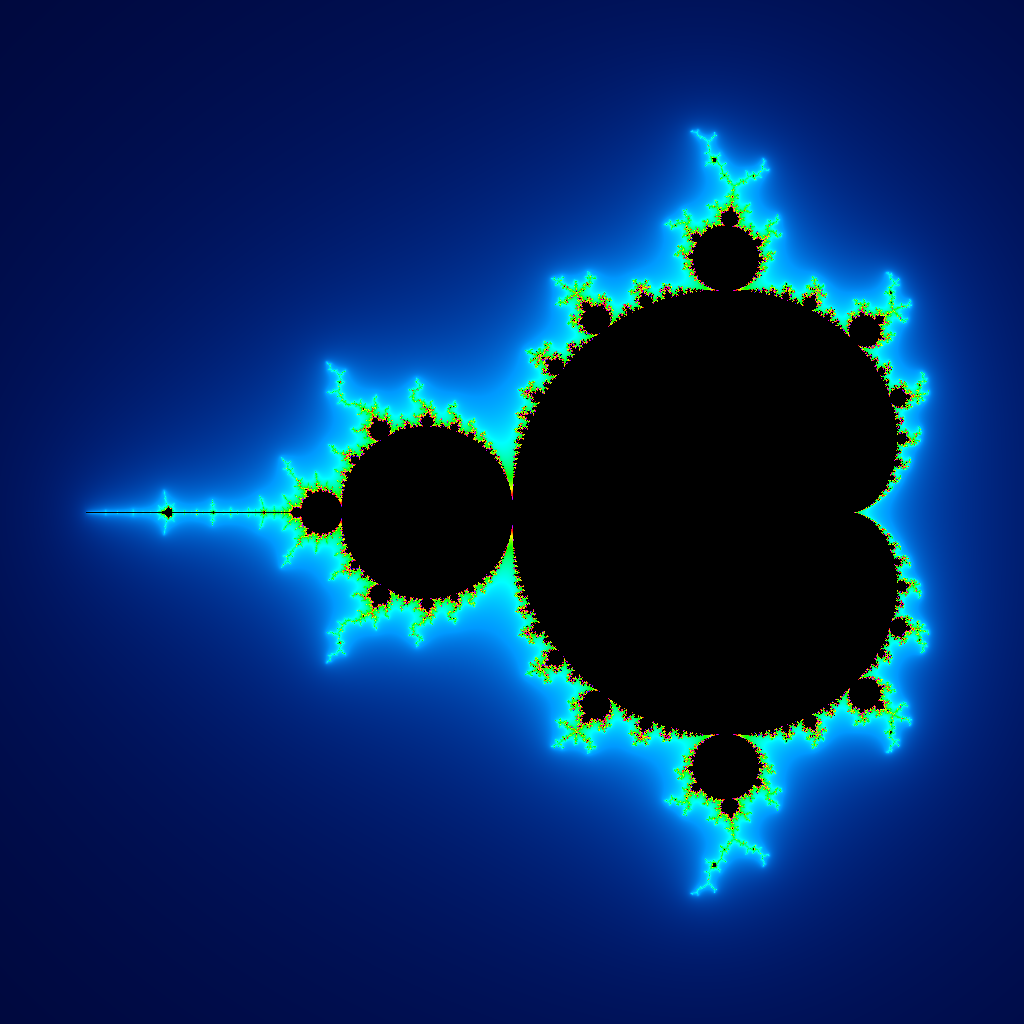
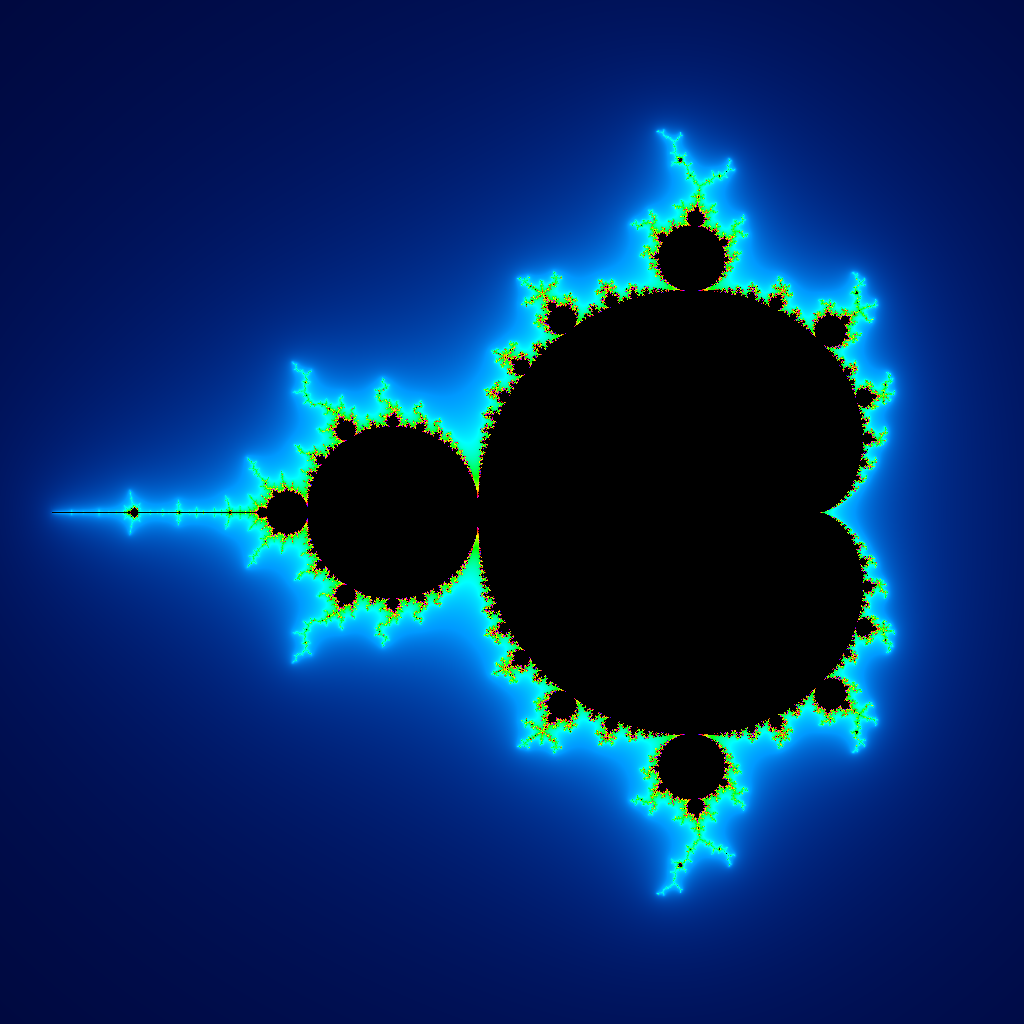
Allow Mandelbots with transparency (eg, those rendered with a circular view) to be saved with transparency intact, unless selection rectangles were used (because the way we currently erase selection rectangles requires that the entire grid be opaque)

Changed region(s): [[0.0312, 0.0938, 0.9375, 0.9062]]

diff --git a/src/mandelbot.min.js b/src/mandelbot.min.js
@@ -11,21 +11,21 @@
 */
 for(var aa="function"==typeof Object.defineProperties?Object.defineProperty:function(a,c,b){if(b.get||b.set)throw new TypeError("ES3 does not support getters and setters.");a!=Array.prototype&&a!=Object.prototype&&(a[c]=b.value)},n="undefined"!=typeof window&&window===this?this:"undefined"!=typeof global&&null!=global?global:this,r=["Math","trunc"],u=0;u<r.length-1;u++){var v=r[u];v in n||(n[v]={});n=n[v]}
 var w=r[r.length-1],x=n[w],y=x?x:function(a){a=Number(a);if(isNaN(a)||Infinity===a||-Infinity===a||!a)return a;var c=Math.floor(Math.abs(a));return 0>a?-c:c};y!=x&&null!=y&&aa(n,w,{configurable:!0,writable:!0,value:y});var z=0,A=[],B=0,ba=1E3/60|0,C,E;
-function F(a,c,b,d,e,f,h,g,k,l,q){a=void 0===a?0:a;c=void 0===c?0:c;b=void 0===b?G:b;d=void 0===d?H:d;e=void 0===e?I:e;f=void 0===f?J:f;K(this,l);this.c=!!L(this,M,h||!1);this.P=L(this,N,g||F.PALETTE.GRAY);this.$=k||F.SHAPE.RECT;this.Z=[0,0,0,0];this.N=[];try{this.aa(F.CONTROL_STATUS,q);var t;a:if(this.V=l,this.H=this.G=0,l){if(this.L=document.getElementById(l))if(this.H=this.L.width,this.G=this.L.height,this.F=this.L.getContext("2d")){this.F.imageSmoothingEnabled=!1;ca(this,this.L);t=!0;break a}O(this,
-"Missing view canvas");t=!1}else t=!0;var p;if(p=t)a:{var m=a||this.H,D=c||this.G;if(this.B=document.createElement("canvas"))if(this.B.width=this.a=m||da,this.B.height=this.b=D||ea,this.D=this.B.getContext("2d"))if(this.v=this.D.createImageData(this.a,this.b)){p=!0;break a}O(this,"Unable to create grid canvas");p=!1}p&&(this.X=L(this,P,this.ja=b,!1),this.Y=L(this,Q,this.ka=d,!1),this.T=L(this,R,this.ga=e,!0),this.U=L(this,S,this.ha=f,!0),T(this,this.X,this.Y,this.T,this.U,!1))}catch(ma){O(this,ma.message)}}
-F.prototype.aa=function(a,c){var b=this;c=c?document.getElementById(c):null;switch(a){case F.CONTROL_STATUS:this.ba=c;O(this);break;case F.CONTROL_RESET:c&&(c.onclick=function(){b.N=[];U(b);b.I==b.X&&b.K==b.Y&&b.h==b.T&&b.j==b.U?T(b,G,H,I,J):T(b,b.X,b.Y,b.T,b.U)});break;case F.CONTROL_PREVIOUS:if(this.S=c)c.onclick=function(){var a=b.N.pop();if(null!=a){K(b,b.V,a);b.c=!!L(b,M,b.c);b.P=L(b,N,b.P);var a=L(b,P,b.ja,!1),c=L(b,Q,b.ka,!1),f=L(b,R,b.ga,!0),h=L(b,S,b.ha,!0);T(b,a,c,f,h);U(b)}};U(this)}};
-function ca(a,c){a.O||(a.O=c,a.g=a.m=-1,a.W=0,a.i=a.w=-1,a.o=a.u=0,a.ia=!1,c.addEventListener("touchstart",function(b){V(a,W,b)}),c.addEventListener("touchmove",function(b){V(a,X,b)}),c.addEventListener("touchend",function(b){V(a,Y,b)}),c.addEventListener("mousedown",function(b){b.button||V(a,W,b)}),c.addEventListener("mousemove",function(b){0<=a.g&&V(a,X,b)}),c.addEventListener("mouseup",function(b){b.button||V(a,Y,b)}),c.addEventListener("mouseout",function(b){0<=a.g&&V(a,Y,b)}))}
-function V(a,c,b){var d,e;if(c<Y){b=b||window.event;b.targetTouches&&b.targetTouches.length?(d=b.targetTouches[0].pageX,e=b.targetTouches[0].pageY):(d=b.pageX,e=b.pageY);var f=0,h=0,g=a.O;do isNaN(g.offsetLeft)||(f+=g.offsetLeft,h+=g.offsetTop);while(g=g.offsetParent);d=a.H/a.O.offsetWidth*(d-f);e=a.G/a.O.offsetHeight*(e-h);d=Math.round(a.a*d/a.H);e=Math.round(a.b*e/a.G)}a.ia||b.preventDefault();0<=a.i&&a.D.putImageData(a.v,0,0);c==W?(a.g=d,a.m=e,a.W=Date.now()):c==X?(c=Math.abs(a.m-e),10<=Math.abs(a.g-
-d)&&10<=c&&(a.i=a.g,a.w=a.m,a.o=d-a.i,a.u=e-a.w,Math.abs(a.o/a.u)!=Math.abs(a.a/a.b)&&(c=Math.abs(a.a*a.u/a.b),a.o=0>a.o?-c:c))):c==Y&&(200>Date.now()-a.W&&(a.o&&a.u?(d=a.i,b=a.w,c=a.i+a.o,e=a.w+a.u,c<d&&(d=c,c=a.i),e<b&&(b=e,e=a.w),a.g>d&&a.g<c&&a.m>b&&a.m<=e&&(a.c?(c=a.f.times(c-d).dividedBy(2),e=a.l.times(e-b).dividedBy(2),d=a.A.plus(a.f.times(d)).plus(c),b=a.s.minus(a.l.times(b)).minus(e)):(c=(c-d)*a.f/2,e=(e-b)*a.l/2,d=a.A+d*a.f+c,b=a.s-b*a.l-e),T(a,d,b,c,e,!0))):(a.c?(d=a.A.plus(a.f.times(a.g)),
-b=a.s.minus(a.l.times(a.m))):(d=a.A+a.g*a.f,b=a.s-a.m*a.l),T(a,d,b,a.h,a.j,!0)),a.i=a.w=-1,a.o=a.u=0),a.g=a.m=-1,a.W=0);0<=a.i&&(a.D.lineWidth=1,a.D.strokeStyle="#00FF00",a.D.strokeRect(a.i,a.w,a.o,a.u));a.F&&a.F.drawImage(a.B,0,0,a.a,a.b,0,0,a.H,a.G)}
-function T(a,c,b,d,e,f){a.c?(a.I=new BigNumber(c),a.K=new BigNumber(b),a.h=new BigNumber(d),a.j=new BigNumber(e),a.A=a.I.minus(a.h),a.f=a.h.times(2).dividedBy(a.a).round(20),a.s=a.K.plus(a.j),a.l=a.j.times(2).dividedBy(a.b).round(20)):(a.I=c,a.K=b,a.h=d,a.j=e,a.A=a.I-a.h,a.f=2*a.h/a.a,a.s=a.K+a.j,a.l=2*a.j/a.b);fa(a,0);if(a.$)for(c=0;c<a.b;c++)for(b=0;b<a.a;b++)ga(a,b,c,16777215);c=a.h;b=a.j;var h;"number"==typeof c?h=Math.min(c,b):h=BigNumber.min(c,b);a.ea=Math.floor(223/Math.sqrt(.001+4*h));O(a,
-"X: "+a.I+", Y: "+a.K+", D: +/-"+a.h+", Max Iterations: "+a.ea+(a.c?" (BigNumbers)":""));!1!==f&&(a.V&&(f&&(a.N.push(location.hash),U(a)),f=ha+"="+a.V,f+="&"+P+"="+a.I,f+="&"+Q+"="+a.K,f+="&"+R+"="+a.h,f+="&"+S+"="+a.j,f+="&"+M+"="+a.c,f+="&"+N+"="+a.P,location.hash=f),Z(!0))}
-function fa(a,c){a.M=c;if(a.$){var b=Math.trunc(a.b/2),d=b-a.M,b=Math.round(Math.sqrt(b*b-d*d));a.C=Math.trunc(a.a/2)-b;a.fa=2*b}else a.C=0,a.fa=a.a;a.c?(a.J=a.A.plus(a.f.times(a.C)),a.R=c?a.R.minus(a.l):a.s.plus(0)):(a.J=a.A+a.f*a.C,a.R=c?a.R-a.l:a.s)}function K(a,c,b){b=void 0===b?location.hash:b;a.ca={};if(c){for(var d={},e,f=/([^#&=]+)=([^&]*)/g;e=f.exec(b);)d[e[1]]=e[2];d[ha]==c&&(a.ca=d)}}
-function L(a,c,b,d){c=a.ca[c];if("boolean"==typeof b)return c&&("true"==c||+c)||!c&&b?1:0;b=c||b;a.c&&void 0!==d?(a=new BigNumber(b),d&&(a=a.abs())):(a=+b,d&&(a=Math.abs(a)));return a}function U(a){a.S&&(a.N.length?a.S.removeAttribute("disabled"):a.S.setAttribute("disabled","disabled"))}function O(a,c){c=c||a.da||"";a.ba?(a.ba.innerHTML=c,a.da=""):a.da=c}function ga(a,c,b,d){c=4*(c+b*a.a);a.v.data[c]=d&255;a.v.data[c+1]=d>>8&255;a.v.data[c+2]=d>>16&255;a.v.data[c+3]=255}
+function F(a,c,b,d,e,f,h,g,k,l,q){a=void 0===a?0:a;c=void 0===c?0:c;b=void 0===b?G:b;d=void 0===d?H:d;e=void 0===e?I:e;f=void 0===f?J:f;K(this,l);this.c=!!L(this,M,h||!1);this.P=L(this,N,g||F.PALETTE.GRAY);this.ga=k||F.SHAPE.RECT;this.$=[0,0,0,0];this.N=[];try{this.Z(F.CONTROL_STATUS,q);var t;a:if(this.V=l,this.H=this.G=0,l){if(this.L=document.getElementById(l))if(this.H=this.L.width,this.G=this.L.height,this.F=this.L.getContext("2d")){this.F.imageSmoothingEnabled=!1;ca(this,this.L);t=!0;break a}O(this,
+"Missing view canvas");t=!1}else t=!0;var p;if(p=t)a:{var m=a||this.H,D=c||this.G;if(this.B=document.createElement("canvas"))if(this.B.width=this.a=m||da,this.B.height=this.b=D||ea,this.D=this.B.getContext("2d"))if(this.m=this.D.createImageData(this.a,this.b)){p=!0;break a}O(this,"Unable to create grid canvas");p=!1}p&&(this.X=L(this,P,this.ka=b,!1),this.Y=L(this,Q,this.la=d,!1),this.T=L(this,R,this.ha=e,!0),this.U=L(this,S,this.ia=f,!0),T(this,this.X,this.Y,this.T,this.U,!1))}catch(ma){O(this,ma.message)}}
+F.prototype.Z=function(a,c){var b=this;c=c?document.getElementById(c):null;switch(a){case F.CONTROL_STATUS:this.aa=c;O(this);break;case F.CONTROL_RESET:c&&(c.onclick=function(){b.N=[];U(b);b.I==b.X&&b.K==b.Y&&b.h==b.T&&b.j==b.U?T(b,G,H,I,J):T(b,b.X,b.Y,b.T,b.U)});break;case F.CONTROL_PREVIOUS:if(this.S=c)c.onclick=function(){var a=b.N.pop();if(null!=a){K(b,b.V,a);b.c=!!L(b,M,b.c);b.P=L(b,N,b.P);var a=L(b,P,b.ka,!1),c=L(b,Q,b.la,!1),f=L(b,R,b.ha,!0),h=L(b,S,b.ia,!0);T(b,a,c,f,h);U(b)}};U(this)}};
+function ca(a,c){a.O||(a.O=c,a.g=a.o=-1,a.W=0,a.i=a.w=-1,a.s=a.v=0,a.ja=!1,c.addEventListener("touchstart",function(b){V(a,W,b)}),c.addEventListener("touchmove",function(b){V(a,X,b)}),c.addEventListener("touchend",function(b){V(a,Y,b)}),c.addEventListener("mousedown",function(b){b.button||V(a,W,b)}),c.addEventListener("mousemove",function(b){0<=a.g&&V(a,X,b)}),c.addEventListener("mouseup",function(b){b.button||V(a,Y,b)}),c.addEventListener("mouseout",function(b){0<=a.g&&V(a,Y,b)}))}
+function V(a,c,b){var d,e;if(c<Y){b=b||window.event;b.targetTouches&&b.targetTouches.length?(d=b.targetTouches[0].pageX,e=b.targetTouches[0].pageY):(d=b.pageX,e=b.pageY);var f=0,h=0,g=a.O;do isNaN(g.offsetLeft)||(f+=g.offsetLeft,h+=g.offsetTop);while(g=g.offsetParent);d=a.H/a.O.offsetWidth*(d-f);e=a.G/a.O.offsetHeight*(e-h);d=Math.round(a.a*d/a.H);e=Math.round(a.b*e/a.G)}a.ja||b.preventDefault();if(0<=a.i){if(a.ba){b=a.a*a.b*4;for(f=0;f<b;f+=4)a.m.data[f+3]=255;a.ba=!1}a.D.putImageData(a.m,0,0)}c==
+W?(a.g=d,a.o=e,a.W=Date.now()):c==X?(c=Math.abs(a.o-e),10<=Math.abs(a.g-d)&&10<=c&&(a.i=a.g,a.w=a.o,a.s=d-a.i,a.v=e-a.w,Math.abs(a.s/a.v)!=Math.abs(a.a/a.b)&&(c=Math.abs(a.a*a.v/a.b),a.s=0>a.s?-c:c))):c==Y&&(200>Date.now()-a.W&&(a.s&&a.v?(d=a.i,b=a.w,c=a.i+a.s,e=a.w+a.v,c<d&&(d=c,c=a.i),e<b&&(b=e,e=a.w),a.g>d&&a.g<c&&a.o>b&&a.o<=e&&(a.c?(c=a.f.times(c-d).dividedBy(2),e=a.l.times(e-b).dividedBy(2),d=a.A.plus(a.f.times(d)).plus(c),b=a.u.minus(a.l.times(b)).minus(e)):(c=(c-d)*a.f/2,e=(e-b)*a.l/2,d=a.A+
+d*a.f+c,b=a.u-b*a.l-e),T(a,d,b,c,e,!0))):(a.c?(d=a.A.plus(a.f.times(a.g)),b=a.u.minus(a.l.times(a.o))):(d=a.A+a.g*a.f,b=a.u-a.o*a.l),T(a,d,b,a.h,a.j,!0)),a.i=a.w=-1,a.s=a.v=0),a.g=a.o=-1,a.W=0);0<=a.i&&(a.D.lineWidth=1,a.D.strokeStyle="#00FF00",a.D.strokeRect(a.i,a.w,a.s,a.v));a.F&&a.F.drawImage(a.B,0,0,a.a,a.b,0,0,a.H,a.G)}
+function T(a,c,b,d,e,f){a.c?(a.I=new BigNumber(c),a.K=new BigNumber(b),a.h=new BigNumber(d),a.j=new BigNumber(e),a.A=a.I.minus(a.h),a.f=a.h.times(2).dividedBy(a.a).round(20),a.u=a.K.plus(a.j),a.l=a.j.times(2).dividedBy(a.b).round(20)):(a.I=c,a.K=b,a.h=d,a.j=e,a.A=a.I-a.h,a.f=2*a.h/a.a,a.u=a.K+a.j,a.l=2*a.j/a.b);fa(a,0);a.ba=!0;for(c=0;c<a.b;c++)for(b=0;b<a.a;b++)ga(a,b,c,16777215,0);c=a.h;b=a.j;var h;"number"==typeof c?h=Math.min(c,b):h=BigNumber.min(c,b);a.ea=Math.floor(223/Math.sqrt(.001+4*h));
+O(a,"X: "+a.I+", Y: "+a.K+", D: +/-"+a.h+", Max Iterations: "+a.ea+(a.c?" (BigNumbers)":""));!1!==f&&(a.V&&(f&&(a.N.push(location.hash),U(a)),f=ha+"="+a.V,f+="&"+P+"="+a.I,f+="&"+Q+"="+a.K,f+="&"+R+"="+a.h,f+="&"+S+"="+a.j,f+="&"+M+"="+a.c,f+="&"+N+"="+a.P,location.hash=f),Z(!0))}
+function fa(a,c){a.M=c;if(a.ga){var b=Math.trunc(a.b/2),d=b-a.M,b=Math.round(Math.sqrt(b*b-d*d));a.C=Math.trunc(a.a/2)-b;a.fa=2*b}else a.C=0,a.fa=a.a;a.c?(a.J=a.A.plus(a.f.times(a.C)),a.R=c?a.R.minus(a.l):a.u.plus(0)):(a.J=a.A+a.f*a.C,a.R=c?a.R-a.l:a.u)}function K(a,c,b){b=void 0===b?location.hash:b;a.ca={};if(c){for(var d={},e,f=/([^#&=]+)=([^&]*)/g;e=f.exec(b);)d[e[1]]=e[2];d[ha]==c&&(a.ca=d)}}
+function L(a,c,b,d){c=a.ca[c];if("boolean"==typeof b)return c&&("true"==c||+c)||!c&&b?1:0;b=c||b;a.c&&void 0!==d?(a=new BigNumber(b),d&&(a=a.abs())):(a=+b,d&&(a=Math.abs(a)));return a}function U(a){a.S&&(a.N.length?a.S.removeAttribute("disabled"):a.S.setAttribute("disabled","disabled"))}function O(a,c){c=c||a.da||"";a.aa?(a.aa.innerHTML=c,a.da=""):a.da=c}function ga(a,c,b,d,e){c=4*(c+b*a.a);a.m.data[c]=d&255;a.m.data[c+1]=d>>8&255;a.m.data[c+2]=d>>16&255;a.m.data[c+3]=void 0===e?255:e}
 function ia(a){var c=0,b=8,c=void 0===c?0:c,b=void 0===b?1:b;a=void 0===a?!1:a;var d=0,e=0;do{var f=0,h=Date.now(),g,k=50;do{k*=2;g=a?new BigNumber(G):G;var l=a?new BigNumber(H):H,l=ja(g,l,c+k);g=Date.now()-h;if(g>=ba)break;f+=c+k-l;c=0}while(1);d+=f;b&&(c=Math.floor(f/b));e++}while(0<--b);return Math.floor(d/e)}
 function ja(a,c,b,d){var e=b=b||100,f=0,h=0;if("number"==typeof a){var g=0,k=0,l;do k=2*g*k+c,g=f-h+a,l=(f=g*g)+(h=k*k);while(0<--e&&4>l);if(e&&d){l=4;do k=2*g*k+c,g=f-h+a,f=g*g,h=k*k;while(0<--l)}}else{g=new BigNumber(0);k=new BigNumber(0);l=new BigNumber(0);var q=new BigNumber(0);do k=g.times(k).times(2).plus(c).round(20),g=l.minus(q).plus(a),l=g.times(g).round(20),q=k.times(k).round(20);while(0<--e&&l.plus(q).lt(4));if(e&&d){f=4;do k=g.times(k).times(2).plus(c).round(20),g=l.minus(q).plus(a),l=
-g.times(g).round(20),q=k.times(k).round(20);while(0<--f);f=l.toNumber();h=q.toNumber()}}d&&(d[0]=b,d[1]=e,d[2]=f,d[3]=h);return e}function ka(a,c){1<c&&(c=1);var b=a/60,d=1*c,e=d*(1-Math.abs(b%2-1)),f=a=0,h=0;1>b?(a=d,f=e):2>b?(a=e,f=d):3>b?(f=d,h=e):4>b?(f=e,h=d):5>b?(a=e,h=d):(a=d,h=e);c-=d;return 255*(a+c)&255|(255*(f+c)&255)<<8|(255*(h+c)&255)<<16}var da=200,ea=200,G=-.75,H=0,I=1.5,J=1.5,W=1,X=2,Y=3,la=1/Math.log(2),na=Math.log(.5)*la,ha="id",P="x",Q="y",R="dx",S="dy",M="big",N="palette";
+g.times(g).round(20),q=k.times(k).round(20);while(0<--f);f=l.toNumber();h=q.toNumber()}}d&&(d[0]=b,d[1]=e,d[2]=f,d[3]=h);return e}function ka(a,c){1<c&&(c=1);var b=a/60,d=1*c,e=d*(1-Math.abs(b%2-1)),f=a=0,h=0;1>b?(a=d,f=e):2>b?(a=e,f=d):3>b?(f=d,h=e):4>b?(f=e,h=d):5>b?(a=e,h=d):(a=d,h=e);c-=d;return 255*(a+c)&255|(255*(f+c)&255)<<8|(255*(h+c)&255)<<16}var da=200,ea=200,G=-.65,H=0,I=1.5,J=1.5,W=1,X=2,Y=3,la=1/Math.log(2),na=Math.log(.5)*la,ha="id",P="x",Q="y",R="dx",S="dy",M="big",N="palette";
 F.PALETTE={BW:1,GRAY:2,BRIGHT:3,MUTED:4,BLUE:5};F.SHAPE={RECT:0,CIRCLE:1};F.CONTROL_STATUS="status";F.CONTROL_RESET="reset";F.CONTROL_PREVIOUS="previous";C=ia();E=ia(!0);
-function Z(a){if(!a){z=0;for(var c=A.length;c--;){for(var b=A[B],d=!1,e=b.C,f=b.M,h=0,g=0,k=Math.floor((b.c?E:C)/A.length);b.M<b.b;){for(;0<k&&0<b.fa--;){var d=b.ea,l=ja(b.J,b.R,d,b.Z),q=b,t=b.C++,p=b.Z,m=0;if(p[1]){var D=!0,m=5+(p[0]-p[1])-na-Math.log(Math.log(p[2]+p[3]))*la;switch(b.P){default:m=-1;break;case F.PALETTE.GRAY:m=Math.floor(512*m/p[0]);255<m&&(m=255);m=m|m<<8|m<<16;break;case F.PALETTE.BRIGHT:m=ka(360*m/p[0],1);break;case F.PALETTE.MUTED:D=!1;case F.PALETTE.BLUE:m=ka(360*m/p[0],10*
-m/p[0]),D&&(m=m&4278255360|m>>16&255|(m&255)<<16)}}ga(q,t,b.M,m);b.c?b.J=b.J.plus(b.f):b.J+=b.f;g||h++;k-=d-l;d=!0}if(0>=k)break;fa(b,b.M+1);g++;e=0;h=b.a}d&&(0<b.C&&g++,h=void 0===h?b.a:h,g=void 0===g?b.b:g,b.D.putImageData(b.v,0,0,void 0===e?0:e,void 0===f?0:f,h,g),b.F&&b.F.drawImage(b.B,0,0,b.a,b.b,0,0,b.H,b.G));d&&(a=!0);++B>=A.length&&(B=0)}}a&&!z&&(z=setTimeout(Z,0))}window.Mandelbot=F;F.prototype.addControl=F.prototype.aa;
+function Z(a){if(!a){z=0;for(var c=A.length;c--;){for(var b=A[B],d=!1,e=b.C,f=b.M,h=0,g=0,k=Math.floor((b.c?E:C)/A.length);b.M<b.b;){for(;0<k&&0<b.fa--;){var d=b.ea,l=ja(b.J,b.R,d,b.$),q=b,t=b.C++,p=b.$,m=0;if(p[1]){var D=!0,m=5+(p[0]-p[1])-na-Math.log(Math.log(p[2]+p[3]))*la;switch(b.P){default:m=-1;break;case F.PALETTE.GRAY:m=Math.floor(512*m/p[0]);255<m&&(m=255);m=m|m<<8|m<<16;break;case F.PALETTE.BRIGHT:m=ka(360*m/p[0],1);break;case F.PALETTE.MUTED:D=!1;case F.PALETTE.BLUE:m=ka(360*m/p[0],10*
+m/p[0]),D&&(m=m&4278255360|m>>16&255|(m&255)<<16)}}ga(q,t,b.M,m);b.c?b.J=b.J.plus(b.f):b.J+=b.f;g||h++;k-=d-l;d=!0}if(0>=k)break;fa(b,b.M+1);g++;e=0;h=b.a}d&&(0<b.C&&g++,h=void 0===h?b.a:h,g=void 0===g?b.b:g,b.D.putImageData(b.m,0,0,void 0===e?0:e,void 0===f?0:f,h,g),b.F&&b.F.drawImage(b.B,0,0,b.a,b.b,0,0,b.H,b.G));d&&(a=!0);++B>=A.length&&(B=0)}}a&&!z&&(z=setTimeout(Z,0))}window.Mandelbot=F;F.prototype.addControl=F.prototype.Z;
 window.newMandelbot=function(a,c,b,d,e,f,h,g,k,l,q,t){t=void 0===t?!0:t;a=new F(a,c,b,d,e,f,h,g,k,l,q);t&&(A.push(a),Z(!0));return a};})() //# sourceMappingURL=/src/mandelbot.js.map

diff --git a/src/mandelbot.js b/src/mandelbot.js
@@ -103,7 +103,7 @@ class Mandelbot {
      * @this {Mandelbot}
      * @param {number} [widthGrid] (grid canvas width; default is view canvas width or 200)
      * @param {number} [heightGrid] (grid canvas height; default is view canvas height or 200)
-     * @param {number|string} [xCenter] (the x coordinate of the center of the image; default is -0.75)
+     * @param {number|string} [xCenter] (the x coordinate of the center of the image; default is -0.65)
      * @param {number|string} [yCenter] (the y coordinate of the center of the image; default is 0)
      * @param {number|string} [dxCenter] (the distance from xCenter to the sides of the image; default is 1.5)
      * @param {number|string} [dyCenter] (the distance from yCenter to the top/bottom of the image; default is 1.5)
@@ -124,8 +124,8 @@ class Mandelbot {
         this.palette = /** @type {number} */ (this.getURLValue(Mandelbot.KEY.PALETTE, palette || Mandelbot['PALETTE']['GRAY']));
         this.shape = shape || Mandelbot['SHAPE']['RECT'];
         /*
-         * TODO: Allow the caller to specify the background color; useful if the page contains a non-rectangular view
-         * or non-default color.
+         * TODO: Allow the caller to specify the background color; useful if the page contains a non-rectangular
+         * view or non-default color.
          */
         this.colorBgnd = 0xffffff;
         this.aResults = [0, 0, 0, 0];
@@ -606,14 +606,24 @@ class Mandelbot {
     /**
      * hideSelection()
      *
-     * This removes any selection rectangle from the grid by simply redrawing all image data onto the grid.
+     * This removes any selection rectangle from the grid by simply redrawing all image data onto the grid,
+     * after first ensuring that none of the grid positions contain transparent values (ie, zero alpha).
+     *
+     * There are many optimizations we could perform here to reduce the amount grid canvas we are touching.
+     * For example, we could re-enable those commented-out putImageData() parameters; however, it's not quite
+     * that simple, because the strokeRect() performed by showSelection() actually touches more pixels than that.
      *
      * @this {Mandelbot}
      */
     hideSelection()
     {
         if (this.colSelect >= 0) {
-            this.contextGrid.putImageData(this.imageGrid, 0, 0);
+            if (this.fZeroAlpha) {
+                let n = this.widthGrid * this.heightGrid * 4;
+                for (let i = 0; i < n; i += 4) this.imageGrid.data[i + 3] = 0xff;
+                this.fZeroAlpha = false;
+            }
+            this.contextGrid.putImageData(this.imageGrid, 0, 0 /*, this.colSelect, this.rowSelect, this.widthSelect, this.heightSelect */);
         }
     }
 
@@ -689,14 +699,23 @@ class Mandelbot {
         }
         this.updateRow(0);
         /*
-         * For any non-rectangular shape, it's best to (re)initialize the entire grid with the background color,
-         * to avoid drawing any undefined pixels onto the view canvas.
+         * It's best to (re)initialize the entire grid with the background color, so that if we need to erase
+         * a selection rectangle from a portion of the grid that hasn't been calculated yet -- either because
+         * shape is non-zero (ie, not a rectangle) or because the calculation process hasn't reached the bottom
+         * of the grid yet -- that erasure can easily be done by blasting the entire grid image onto the grid
+         * canvas; see hideSelection() for details.
+         *
+         * One wrinkle you'll notice here is that we're calling setGridPoint() with the alpha parameter set to
+         * zero, which means all uncalculated points are initially transparent.  We do this so that, as long
+         * as you don't make any selections, all grid positions outside the calculation area remain transparent,
+         * allowing you to save the final image with transparency intact.  However, the first time you make a
+         * selection, hideSelection() will write non-zero (0xff) alpha values into all grid positions, ensuring
+         * that any selection rectangle will be properly erased.
          */
-        if (this.shape) {
-            for (let row = 0; row < this.heightGrid; row++) {
-                for (let col = 0; col < this.widthGrid; col++) {
-                    this.setGridPoint(col, row, this.colorBgnd);
-                }
+        this.fZeroAlpha = true;
+        for (let row = 0; row < this.heightGrid; row++) {
+            for (let col = 0; col < this.widthGrid; col++) {
+                this.setGridPoint(col, row, this.colorBgnd, 0);
             }
         }
         this.nMaxIterations = Mandelbot.getMaxIterations(this.dxCenter, this.dyCenter);
@@ -1000,20 +1019,21 @@ class Mandelbot {
     }
 
     /**
-     * setGridPoint(col, row, nRGB)
+     * setGridPoint(col, row, rgb, alpha)
      *
      * @this {Mandelbot}
      * @param {number} col
      * @param {number} row
-     * @param {number} nRGB
+     * @param {number} rgb
+     * @param {number} [alpha]
      */
-    setGridPoint(col, row, nRGB)
+    setGridPoint(col, row, rgb, alpha = 0xff)
     {
         let i = (col + row * this.widthGrid) * 4;
-        this.imageGrid.data[i] = nRGB & 0xff;
-        this.imageGrid.data[i+1] = (nRGB >> 8) & 0xff;
-        this.imageGrid.data[i+2] = (nRGB >> 16) & 0xff;
-        this.imageGrid.data[i+3] = 0xff;
+        this.imageGrid.data[i] = rgb & 0xff;
+        this.imageGrid.data[i+1] = (rgb >> 8) & 0xff;
+        this.imageGrid.data[i+2] = (rgb >> 16) & 0xff;
+        this.imageGrid.data[i+3] = alpha;
     }
 
     /**
@@ -1205,7 +1225,7 @@ class Mandelbot {
      */
     static getColor(palette, aResults)
     {
-        let nRGB = 0;           // 0 is black (0x000000), used for numbers in the Mandelbrot set
+        let rgb = 0;            // 0 is black (0x000000), used for numbers in the Mandelbrot set
 
         if (aResults[1]) {      // if the number is NOT in the Mandelbrot set, then choose another color
 
@@ -1215,28 +1235,28 @@ class Mandelbot {
             switch (palette) {
             case Mandelbot['PALETTE']['BW']:
             default:
-                nRGB = -1;      // -1 is white (0xffffff)
+                rgb = -1;       // -1 is white (0xffffff)
                 break;
             case Mandelbot['PALETTE']['GRAY']:
                 v = Math.floor(512.0 * v / aResults[0]);
                 if (v > 0xff) v = 0xff;
-                nRGB = v | (v << 8) | (v << 16);
+                rgb = v | (v << 8) | (v << 16);
                 break;
             case Mandelbot['PALETTE']['BRIGHT']:
-                nRGB = Mandelbot.getRGBFromHSV(360 * v / aResults[0], 1.0, 1.0);
+                rgb = Mandelbot.getRGBFromHSV(360 * v / aResults[0], 1.0, 1.0);
                 break;
             case Mandelbot['PALETTE']['MUTED']:
                 fSwap = false;
                 /* falls through */
             case Mandelbot['PALETTE']['BLUE']:
-                nRGB = Mandelbot.getRGBFromHSV(360 * v / aResults[0], 1.0, 10.0 * v / aResults[0]);
+                rgb = Mandelbot.getRGBFromHSV(360 * v / aResults[0], 1.0, 10.0 * v / aResults[0]);
                 if (fSwap) {    // swap red and blue bytes
-                    nRGB = (nRGB & 0xff00ff00) | ((nRGB >> 16) & 0xff) | ((nRGB & 0xff) << 16);
+                    rgb = (rgb & 0xff00ff00) | ((rgb >> 16) & 0xff) | ((rgb & 0xff) << 16);
                 }
                 break;
             }
         }
-        return nRGB;
+        return rgb;
     }
 
     /**
@@ -1327,7 +1347,7 @@ class Mandelbot {
 Mandelbot.DEFAULT = {
     WGRID:      200,
     HGRID:      200,
-    XCENTER:    -0.75,
+    XCENTER:    -0.65,
     YCENTER:    0,
     DXCENTER:   1.5,
     DYCENTER:   1.5

diff --git a/debug.html b/debug.html
@@ -46,7 +46,7 @@
 
       <footer class="site-footer">
 
-        <span class="site-footer-owner"><a href="http://mandelbot.net">mandelbot.net</a> &copy; 2017 <a href="https://github.com/jeffpar">jeffpar</a></span>
+        <span class="site-footer-owner"><a href="/mandelbot/debug.html">mandelbot.net</a> &copy; 2017 <a href="https://github.com/jeffpar">jeffpar</a></span>
 
       </footer>
     </section>

diff --git a/_includes/mandelbot.html b/_includes/mandelbot.html
@@ -12,7 +12,7 @@ Mandelbots may also have the following properties:
   heightGrid (default: heightView)
   widthStyle (default: 'auto')
   heightStyle (default: 'auto')
-  xCenter (default: '-0.75')
+  xCenter (default: '-0.65')
   yCenter (default: '0')
   dxCenter (default: '1.5')
   dyCenter (default: dxCenter)

diff --git a/README.md b/README.md
@@ -111,7 +111,7 @@ These "predefined" Mandelbots can then be added anywhere on the page, using just
 
 	{% include mandelbot.html id="mandelbot1" %}
 
-Examples of both "inline" and "predefined" Mandelbots can be found on the [demo page](/demos/two/INDEX.md) for [Two Mandelbots](http://mandelbot.net/demos/two/).
+Examples of both "inline" and "predefined" Mandelbots can be found on the [demo page](/demos/multiple/INDEX.md) for [Multiple Mandelbots](http://mandelbot.net/demos/multiple/).
 
 There are also per-page properties that affect all Mandelbots on a page.  For example, setting *developer* to **true**
 at the top of the page (inside the Front Matter):
@@ -130,7 +130,7 @@ Mandelbots support the following properties:
 - *heightGrid*: the height of the grid canvas on which numbers will plotted, in pixels (default: heightView)
 - *widthStyle*: the width used to display the view canvas (default: auto)
 - *heightStyle*: the height used to display the view canvas (default: auto)
-- *xCenter*: the x coordinate of the center of the initial image (default: -0.75)
+- *xCenter*: the x coordinate of the center of the initial image (default: -0.65)
 - *yCenter*: the y coordinate of the center of the initial image (default: 0)
 - *dxCenter*: the distance from xCenter to the right and left sides of the initial image (default: 1.5)
 - *dyCenter*: the distance from yCenter to the top and bottom of the initial image (default: dxCenter)

diff --git a/demos/multiple/INDEX.md b/demos/multiple/INDEX.md
@@ -1,0 +1,21 @@
+---
+title: Multiple
+permalink: /demos/multiple/
+mandelbots:
+  - id: mandelbot1
+    widthView: 400
+    heightView: 400
+    widthStyle: 48%
+    palette: bright
+---
+
+Multiple Mandelbots
+-------------------
+
+{% include mandelbot.html id="mandelbot1" %}
+
+{% include mandelbot.html id="mandelbot2" widthView="400" heightView="400" widthStyle="48%" palette="muted" %}
+
+{% include mandelbot.html id="mandelbot3" widthView="400" heightView="400" widthStyle="48%" palette="blue" %}
+
+{% include mandelbot.html id="mandelbot4" widthView="400" heightView="400" widthStyle="48%" palette="gray" %}

diff --git a/demos/INDEX.md b/demos/INDEX.md
@@ -7,5 +7,5 @@ Mandelbot Demos
 ---------------
 
 * [Circular View](circular/)
-* [Two Mandelbots](two/)
+* [Multiple Mandelbots](multiple/)
 * [Uncompiled Mandelbot](uncompiled/)
